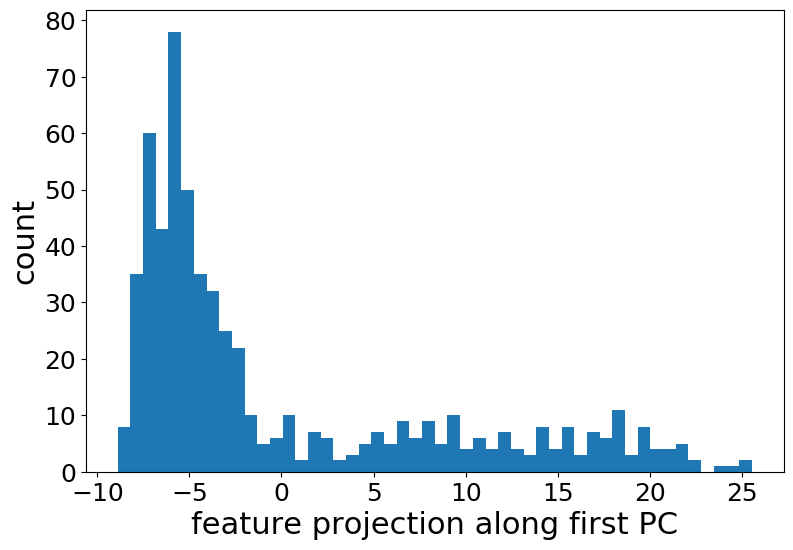
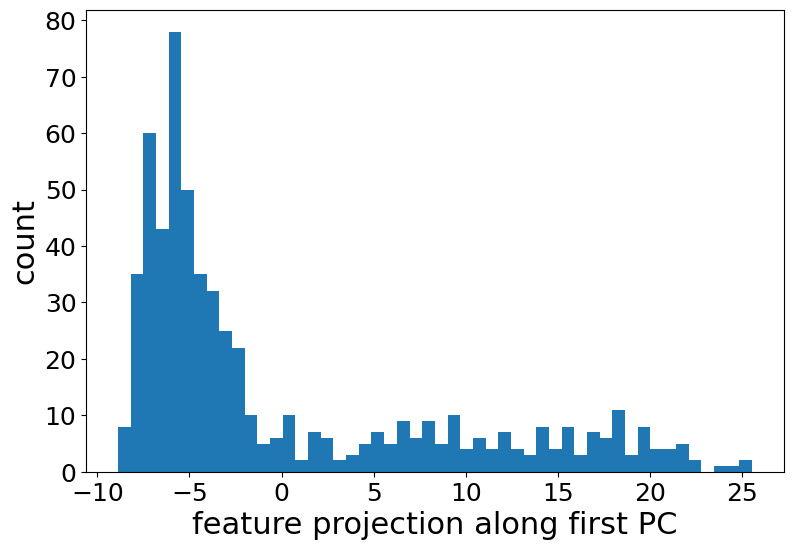
removed redundant code

diff --git a/main.py b/main.py
@@ -9,7 +9,7 @@ model_depth = 29                                       # Layer
 img, img_h, img_w = get_img(sys.argv[1])
 
 # Obtain feature tensor from model
-result = model.features[:model_depth](img.view(1, 3, img_h, img_w))[0]
+result = model.features[:model_depth](img.unsqueeze(0))[0]
 result = result.permute(1,2,0).detach().numpy().astype(float)
 height, width, depth = result.shape
 
